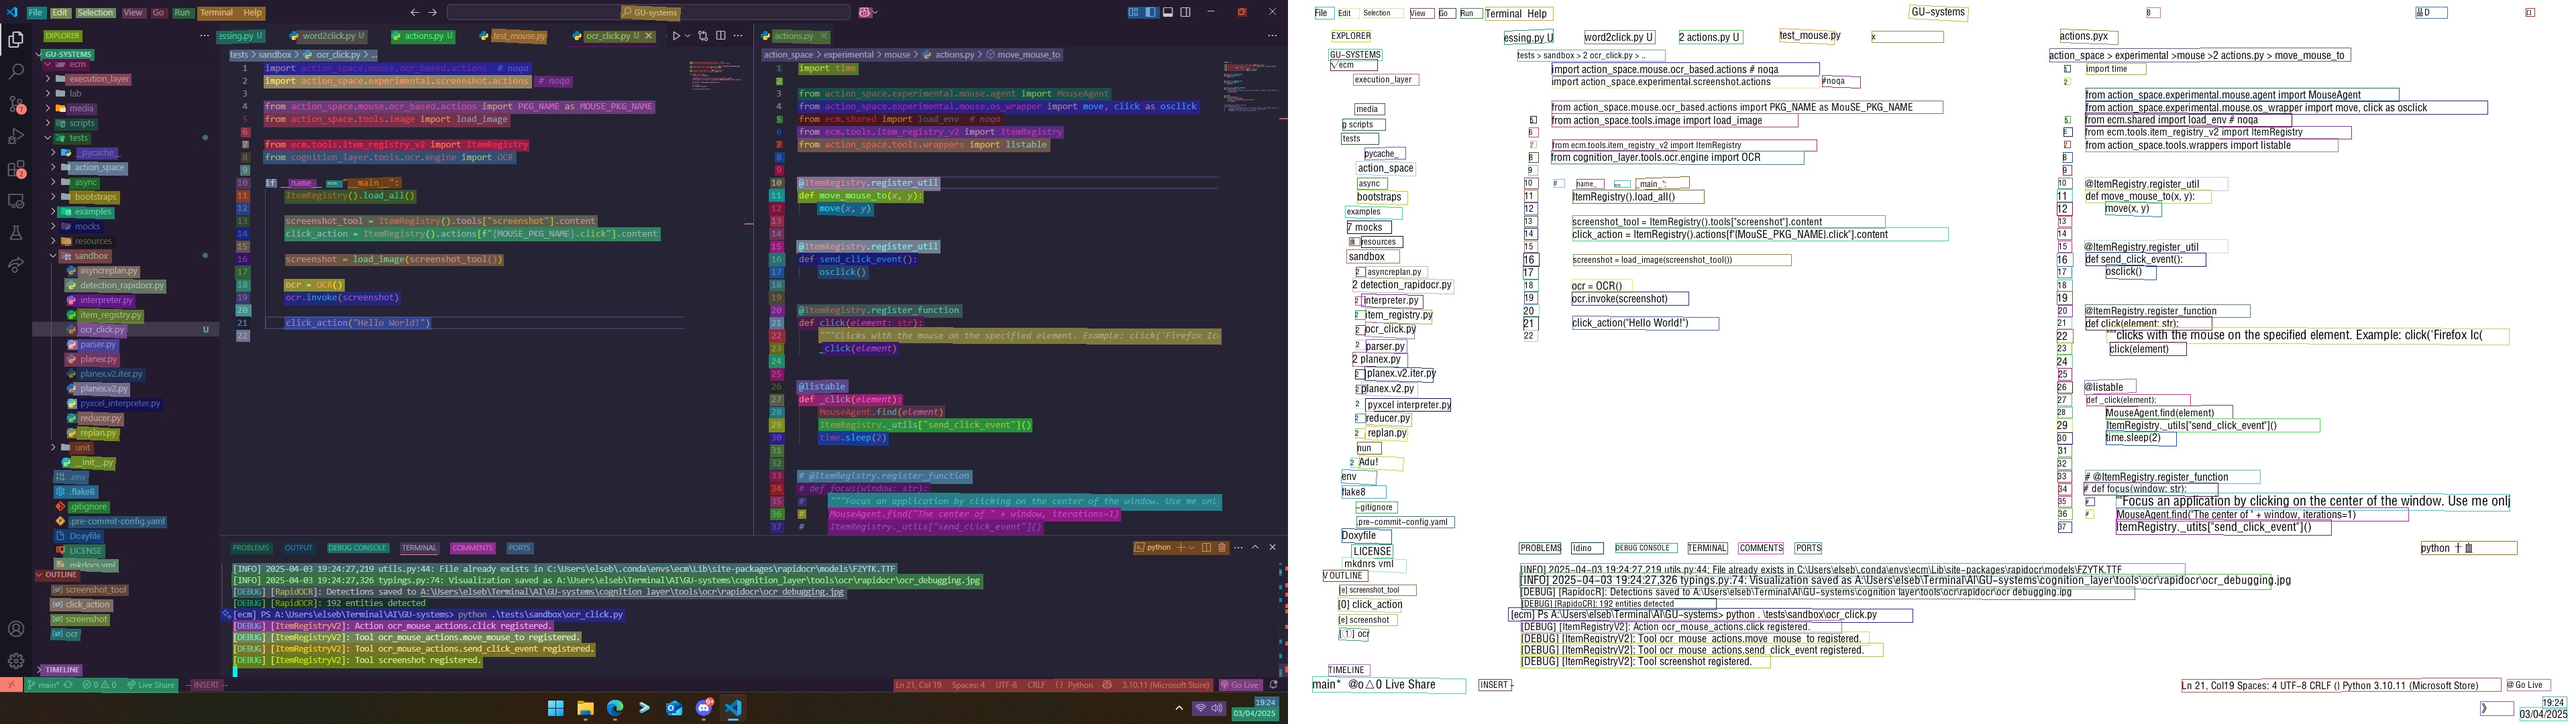
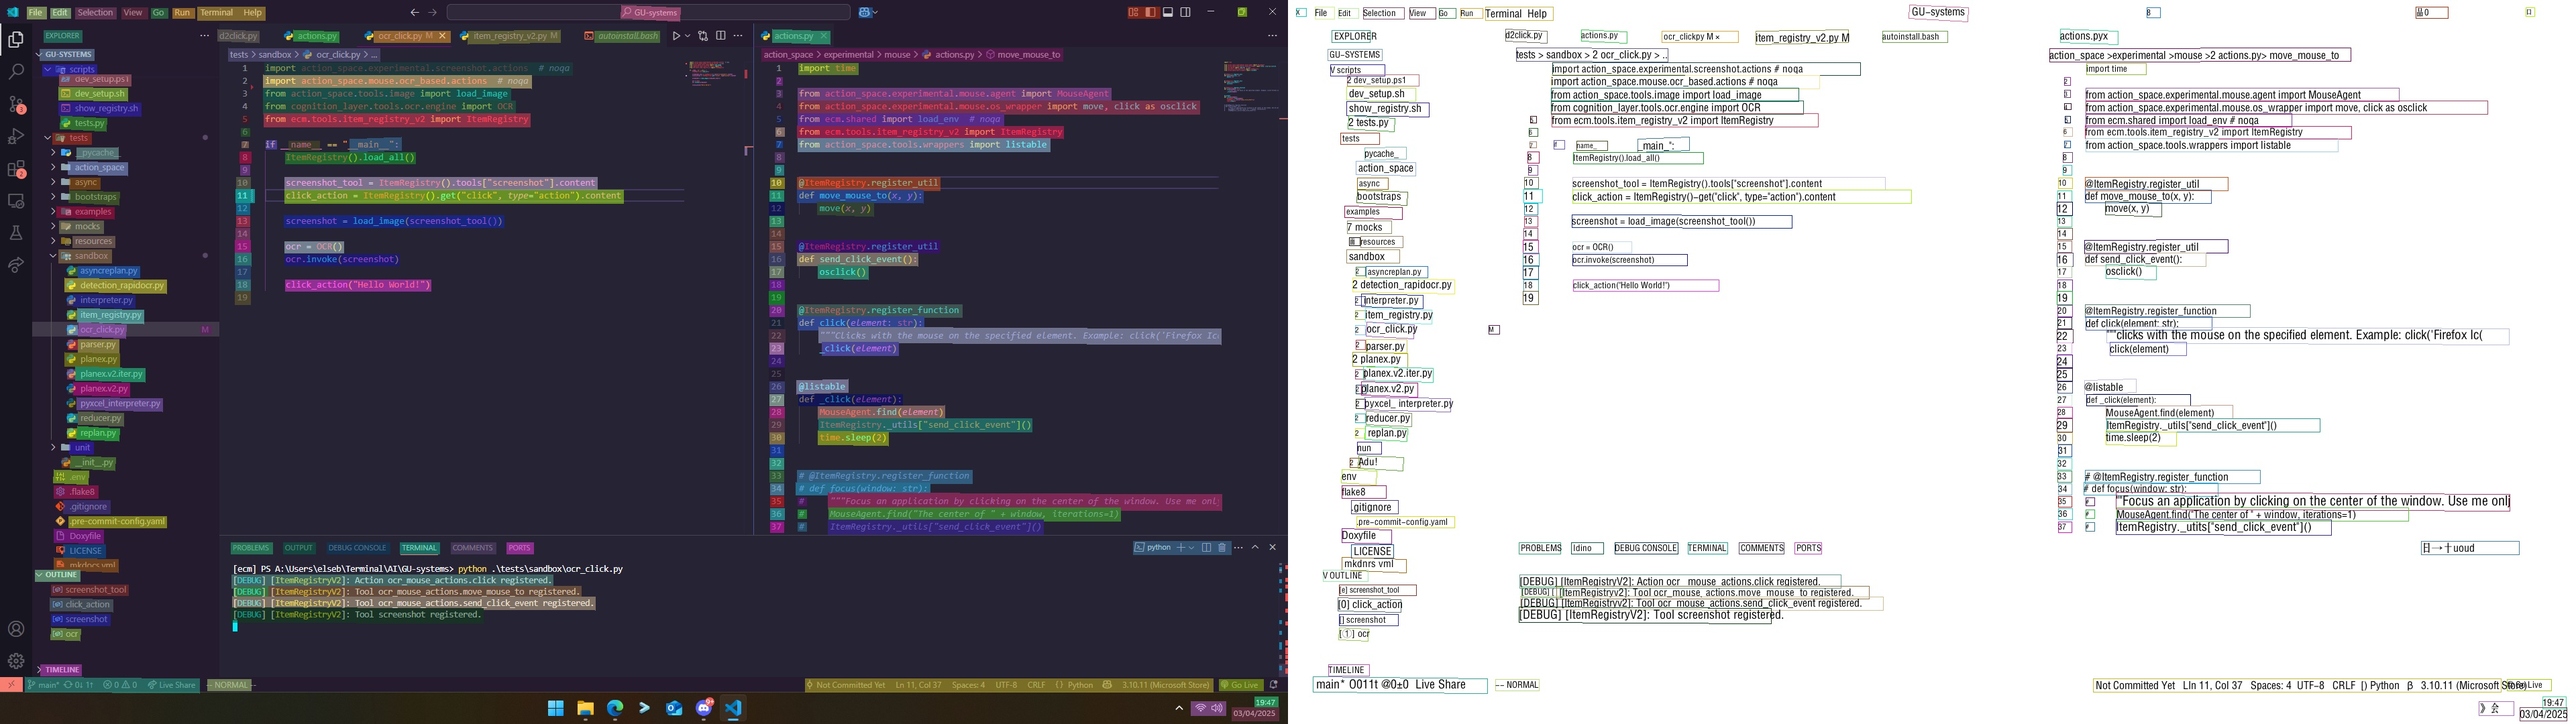
Added get function to ItemRegistry

diff --git a/ecm/tools/item_registry_v2.py b/ecm/tools/item_registry_v2.py
@@ -25,6 +25,7 @@ from dataclasses import field
 from ecm.shared import _MOCKS_ENABLED
 from ecm.shared import get_logger
 from ecm.tools.prettify import pretty_head
+from itertools import chain
 from typing import Any
 from typing import Callable
 from typing import Literal
@@ -210,6 +211,54 @@ class ItemRegistry:
 
         for item in new_items:
             self._load_to_correspondent(item, silent=True)
+
+    def get(
+        self,
+        name: str,
+        type: Literal["tool", "action", "item", "all"] = "all",
+        return_multiple: bool = False,
+    ) -> Tool | Item | Action:
+        """
+        Used for simplifiying the retrieval of entities from the registry.
+
+        Retrieves an item from the registry based on its name and type.
+        It searches through the registered actions, tools, and items,
+        returning the first match found. If multiple matches are found,
+        it can return a list of all matching items.
+
+        :param name: The name of the item to retrieve.
+        :param type: The type of item to retrieve ("tool", "action", "item", "all").
+        :param return_multiple: If True, returns a list of all matching items.
+        :return: The matching item or a list of matching items.
+        """
+        result_list = []
+
+        for item in chain(
+            self.actions.values(), self.tools.values(), self.items.values()
+        ):
+            result = None
+
+            if name.lower() in item.name.lower():
+                if (
+                    type == "all"
+                    or (type == "item" and isinstance(item, Item))
+                    or (type == "tool" and isinstance(item, Tool))
+                    or (type == "action" and isinstance(item, Action))
+                ):
+                    result = item
+
+            if result is not None:
+                result_list.append(result)
+
+        if not return_multiple and len(result_list) > 1:
+            self._logger.warning(
+                f"Multiple items found for name '{name}'. Returning the first match."
+            )
+
+        if not return_multiple:
+            return result_list[0]
+
+        return result_list
 
     @classmethod
     def summary(cls, full: bool = False) -> None:

diff --git a/tests/sandbox/ocr_click.py b/tests/sandbox/ocr_click.py
@@ -1,6 +1,5 @@
 import action_space.experimental.screenshot.actions  # noqa
 import action_space.mouse.ocr_based.actions  # noqa
-from action_space.mouse.ocr_based.actions import PKG_NAME as MOUSE_PKG_NAME
 from action_space.tools.image import load_image
 from cognition_layer.tools.ocr.engine import OCR
 from ecm.tools.item_registry_v2 import ItemRegistry
@@ -9,7 +8,7 @@ if __name__ == "__main__":
     ItemRegistry().load_all()
 
     screenshot_tool = ItemRegistry().tools["screenshot"].content
-    click_action = ItemRegistry().actions[f"{MOUSE_PKG_NAME}.click"].content
+    click_action = ItemRegistry().get("click", type="action").content
 
     screenshot = load_image(screenshot_tool())
 
